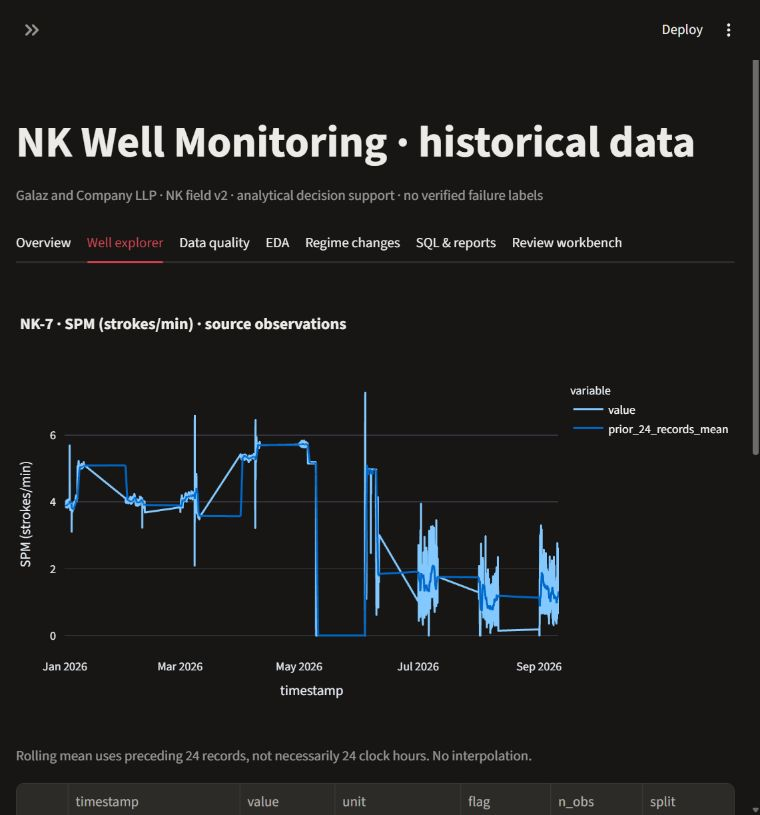
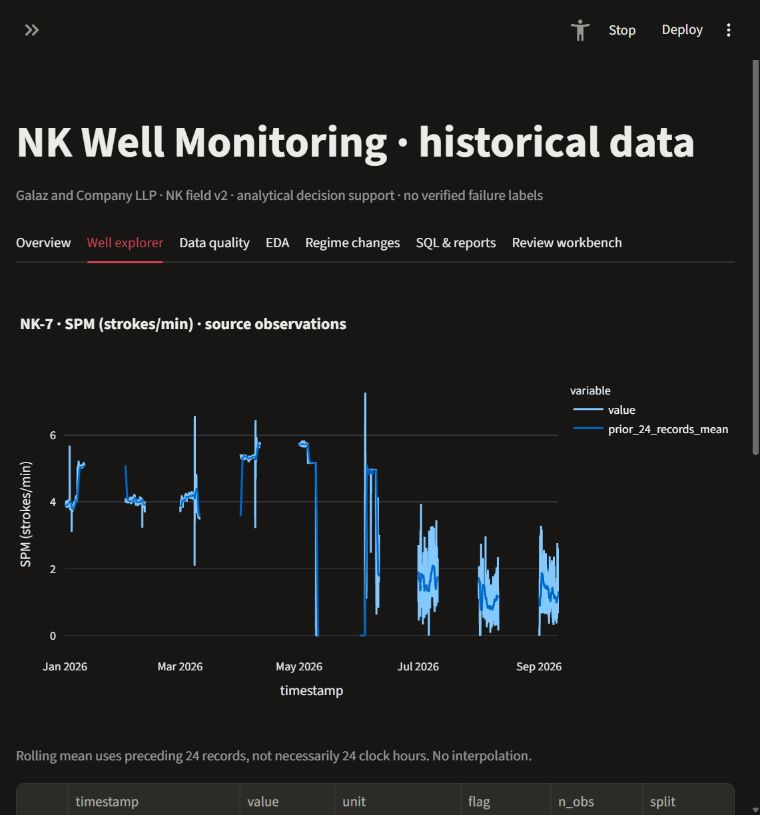
Finalize qtj4 publication record and chart gap rendering

diff --git a/nk_oil/reporting.py b/nk_oil/reporting.py
@@ -18,6 +18,7 @@ def diagnostic(data, events, comparison, manifest, well, parameter, begin, finis
     signal = selected[selected.parameter == parameter].sort_values('timestamp')
     unit = str(signal.unit.iloc[0]) if len(signal) else ''
     chart = px.line(break_gaps(signal, ['value']), x='timestamp', y='value', title=f'{well} · {parameter} ({unit})')
+    chart.update_traces(connectgaps=False)
     stats = selected.groupby(['parameter', 'unit'], observed=True).value.agg(['count', 'mean', 'median', 'std', 'min', 'max'])
     flags = selected.groupby(['parameter', 'flag'], observed=True).size().reset_index(name='records')
     coverage = selected.groupby('parameter', observed=True).agg(records=('timestamp', 'size'),

diff --git a/nk_oil/charts.py b/nk_oil/charts.py
@@ -24,6 +24,7 @@ def figures(df, well, parameter):
     plot_data = break_gaps(selected, ['value', 'prior_24_records_mean'])
     trend = px.line(plot_data, x='timestamp', y=['value', 'prior_24_records_mean'],
                     title=f'{well} · {parameter} ({unit}) · source observations')
+    trend.update_traces(connectgaps=False)
     trend.update_yaxes(title=f'{parameter} ({unit})')
     group = df[df.parameter == parameter]
     distribution = px.box(group, x='well_type', y='value', color='well_id',

diff --git a/docs/handoff.md b/docs/handoff.md
@@ -13,4 +13,6 @@ Full source processed twice; reproducible outputs and metadata in `results/20261
 ## Phase 4
 Completed software/deliverable work: objective audit, clean-install/offline checks, archive/n_obs fixes, 9-page report PDF plus Markdown, 12-slide editable PPTX/PDF and preview, defense/claim/submission docs. 21 tests pass, including clean venv; pip check and Ruff pass. All report pages/slides rendered and reviewed; PowerPoint text edit/save/reopen passed, final fit warnings empty. Runnable server checked at localhost:8501. Run commands in README. Private GitHub repo created only in qtj4; final push follows commit. No wrong-account publication or deletion. Remaining external actions: instructor size exception/topic approval, real team attribution, actual exam/Moodle deadline and submission. No further mandatory implementation phase remains; see final_audit.md for limitations.
 
+Publication verified: https://github.com/qtj4/nk-oil-well-monitoring (private), main includes phase 4 implementation commit 49554d0 and preceding phase history. Final documentation/chart-display closure is a normal subsequent commit. Remote and credentials restricted to qtj4; no other-account repository created and no force-push. Dashboard is running at http://127.0.0.1:8501 on this machine.
+
 Phase 1 verified: CLI help/inspect/prepare/init-db all exit 0; 7 pytest tests passed (including Streamlit AppTest); ruff passed. Initial checks ran before Streamlit installation completed and exposed a relative AppTest path issue; fixed and rerun successfully. Evidence: results/phase1_checks.txt. Long/SQLite count 2,064; duplicate keys 0. No full-data validation yet.

diff --git a/docs/submission_checklist.md b/docs/submission_checklist.md
@@ -5,7 +5,7 @@
 - [x] Full analysis, measurements, sample/offline mode, tests and quality evidence.
 - [x] Academic report Markdown/PDF and presentation content/editable PPTX; final render QA documented.
 - [x] Defense guide and product demo story.
-- [ ] GitHub push pending final commit: ONLY owner **qtj4**. Private repository created at https://github.com/qtj4/nk-oil-well-monitoring after verifying identity via existing qtj4 Git Credential Manager authorization. No other-account upload occurred. Preserve local phase history; push without force. Private visibility is the conservative initial default until sharing decision is explicit.
+- [x] GitHub publication: ONLY owner **qtj4**. Private repository https://github.com/qtj4/nk-oil-well-monitoring . Phase 1/2/2.5/3/4 history pushed to main, implementation commit 49554d0. Existing qtj4 authorization verified before API creation and Git push. No other-account upload occurred. No force-push. Private visibility retained.
 - [ ] Confirm instructor-approved topic and exception/additional legitimate source for recommended size.
 - [ ] Add actual participant names and real contributions, if applicable.
 - [ ] Set actual exam date and Moodle deadline; submit report and presentation 2-3 days before exam. No deadline is invented.

diff --git a/docs/final_audit.md b/docs/final_audit.md
@@ -24,4 +24,4 @@ Combined heuristic 81-97/100; this does not predict the instructor's score. Exte
 ## Pass / external status
 PASS: implementation, full source execution, 8 SQL, pivot, sample/full app smoke, temporal invariants, product review→report, tests and clean install. PASS artifacts after visual final QA: academic PDF and editable PPTX.
 
-EXTERNAL: dataset size exception; SCADA year/timezone validation; instructor topic approval; actual team names/contributions; exam/Moodle date and submission. GitHub authorized owner qtj4 only; connector and existing credential identities verified. Private repository created in qtj4; final push follows artifact QA. No repository was published to a different account.
+EXTERNAL: dataset size exception; SCADA year/timezone validation; instructor topic approval; actual team names/contributions; exam/Moodle date and submission. GitHub authorized owner qtj4 only; connector and existing credential identities verified. Private qtj4/nk-oil-well-monitoring contains all phase commits and deliverables, pushed without force. No repository was published to a different account.
